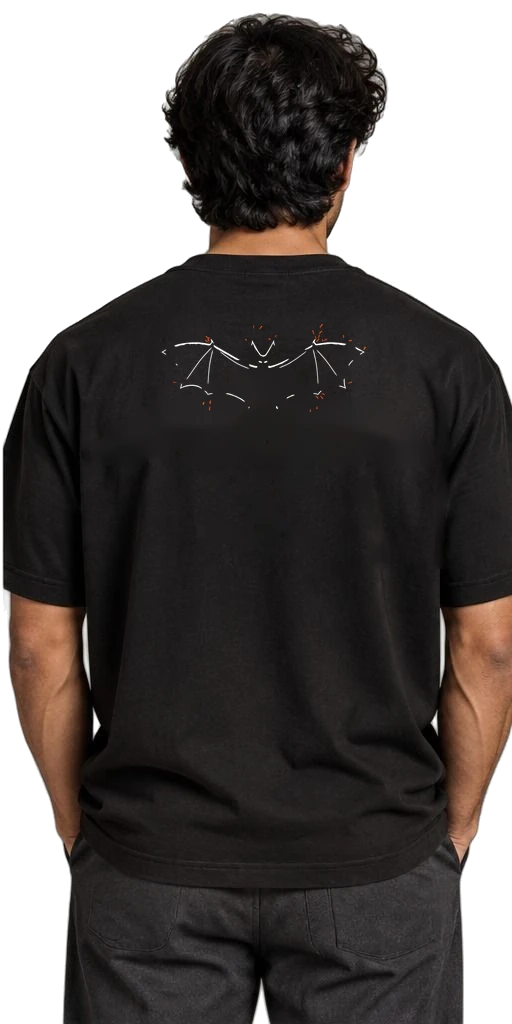
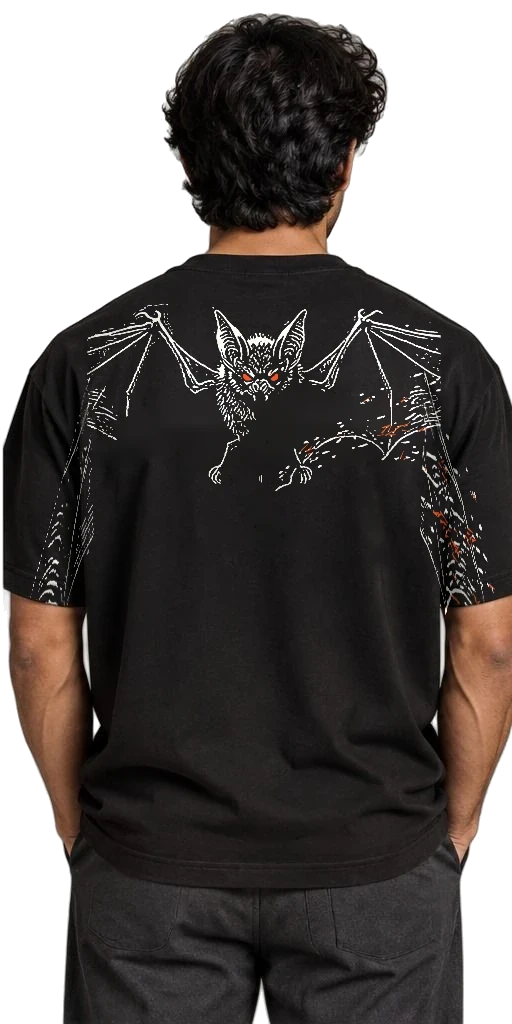
Design lab: ECHO redone from the founder's Gemini bat as an etched ink print, wings down both sleeves, orange eyes
Arms down it folds round the wearer; a new "Arms out" view shows it open sleeve to sleeve. Replaces the code-drawn ECHO.

diff --git a/lib/lab.ts b/lib/lab.ts
@@ -296,15 +296,22 @@ const tests: LabDesign[] = [
     note: MOCKUP,
   },
   {
-    // 2026-11-22. Drawn by Claude (backend/scripts/art_bat.py) to the founder's brief, orange sparks by the founder's pick: a
-    // bat lit only on some edges. Print-safe: two solid inks, every line at least 1 mm, no loose piece under 3 mm2.
+    // 2026-11-22, round 4 (rounds 1-3 were drawn in code and turned down). The founder's Gemini bat, inked by Claude
+    // (backend/scripts/echo4.py): wings from the shoulders down both sleeves, so it opens when the arms go out; orange eyes.
     id: 'echo', name: 'ECHO', colour: 'Black', swatch: '#1d1d1d', field: 'Night',
     line: 'Own the dark.',
-    story: 'A bat at night, seen only where the light catches it: the top of its wings, the tips of its ears, the long bones of its fingers, two white eyes. Your eye fills in the rest. Sparks fly off its wingtips as it turns. A bat finds its way in the dark by sound, not sight. On the front, only ADRENL raised in black.',
-    print: 'Bat lit on some edges, white eyes, orange sparks',
+    story: 'A bat sits between your shoulders, eyes burning orange, and its wings run down both your arms. Arms down, it folds round you. Arms out, it opens to its full span, sleeve to sleeve, sparks flying off one wing. Drawn like an old etching, in white ink on black. On the front, only ADRENL raised in black.',
+    print: 'Etched bat across the back and down both sleeves, orange eyes and sparks',
     status: 'test', show: true, range: 'minimal',
-    shots: [{ label: 'Back', src: 'lab/echo/back.webp' }, { label: 'Front', src: 'lab/echo/front.webp' }],
-    refs: [{ src: 'lab/echo/print.jpg', w: 1400, h: 723, label: 'Back print: the bat, about 35 cm across' }],
+    shots: [
+      { label: 'Back', src: 'lab/echo/back.webp' },
+      { label: 'Front', src: 'lab/echo/front.webp' },
+      { label: 'Arms out', src: 'lab/echo/arms.webp' },
+    ],
+    refs: [
+      { src: 'lab/echo/arms-out.jpg', w: 1400, h: 962, label: 'Arms out: the wings open, sleeve to sleeve' },
+      { src: 'lab/echo/print.jpg', w: 1400, h: 814, label: 'Back print, about 60 cm across; each sleeve carries a wing' },
+    ],
     note: MOCKUP,
   },
   {
